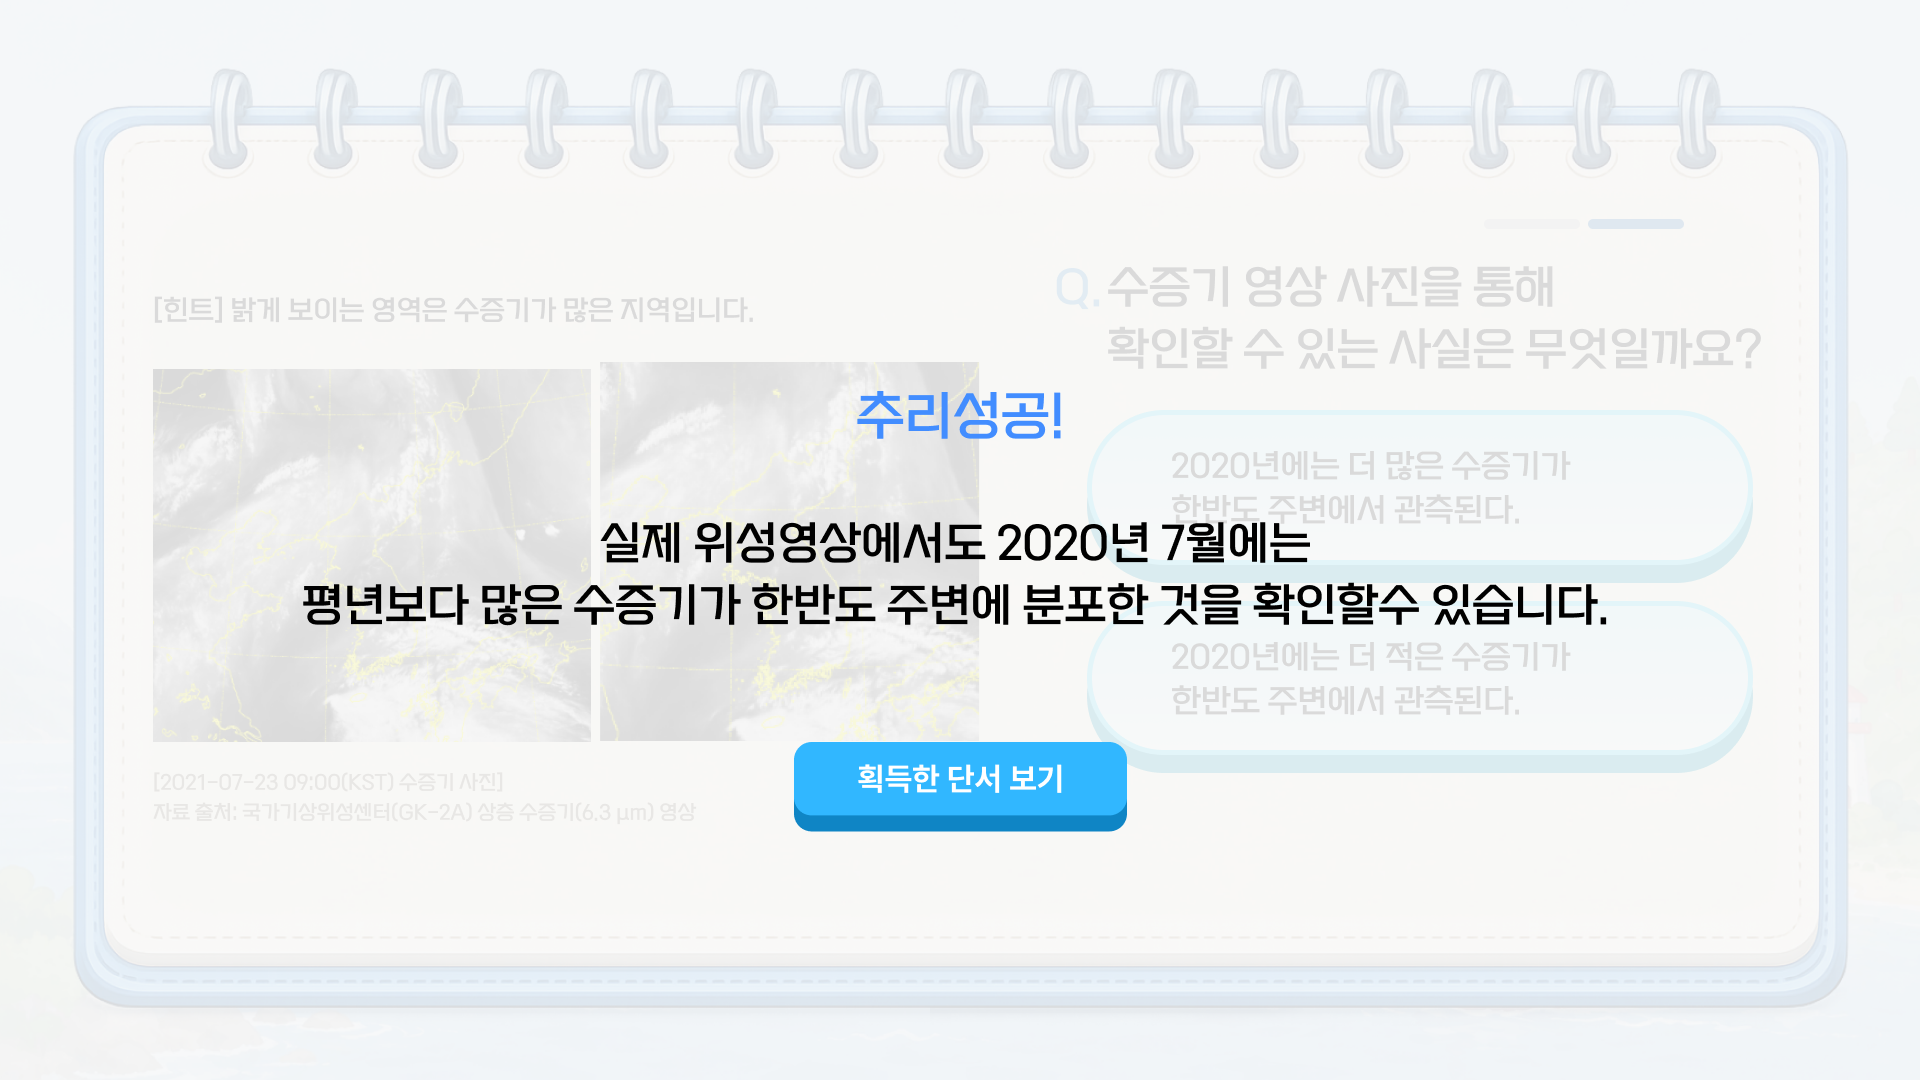
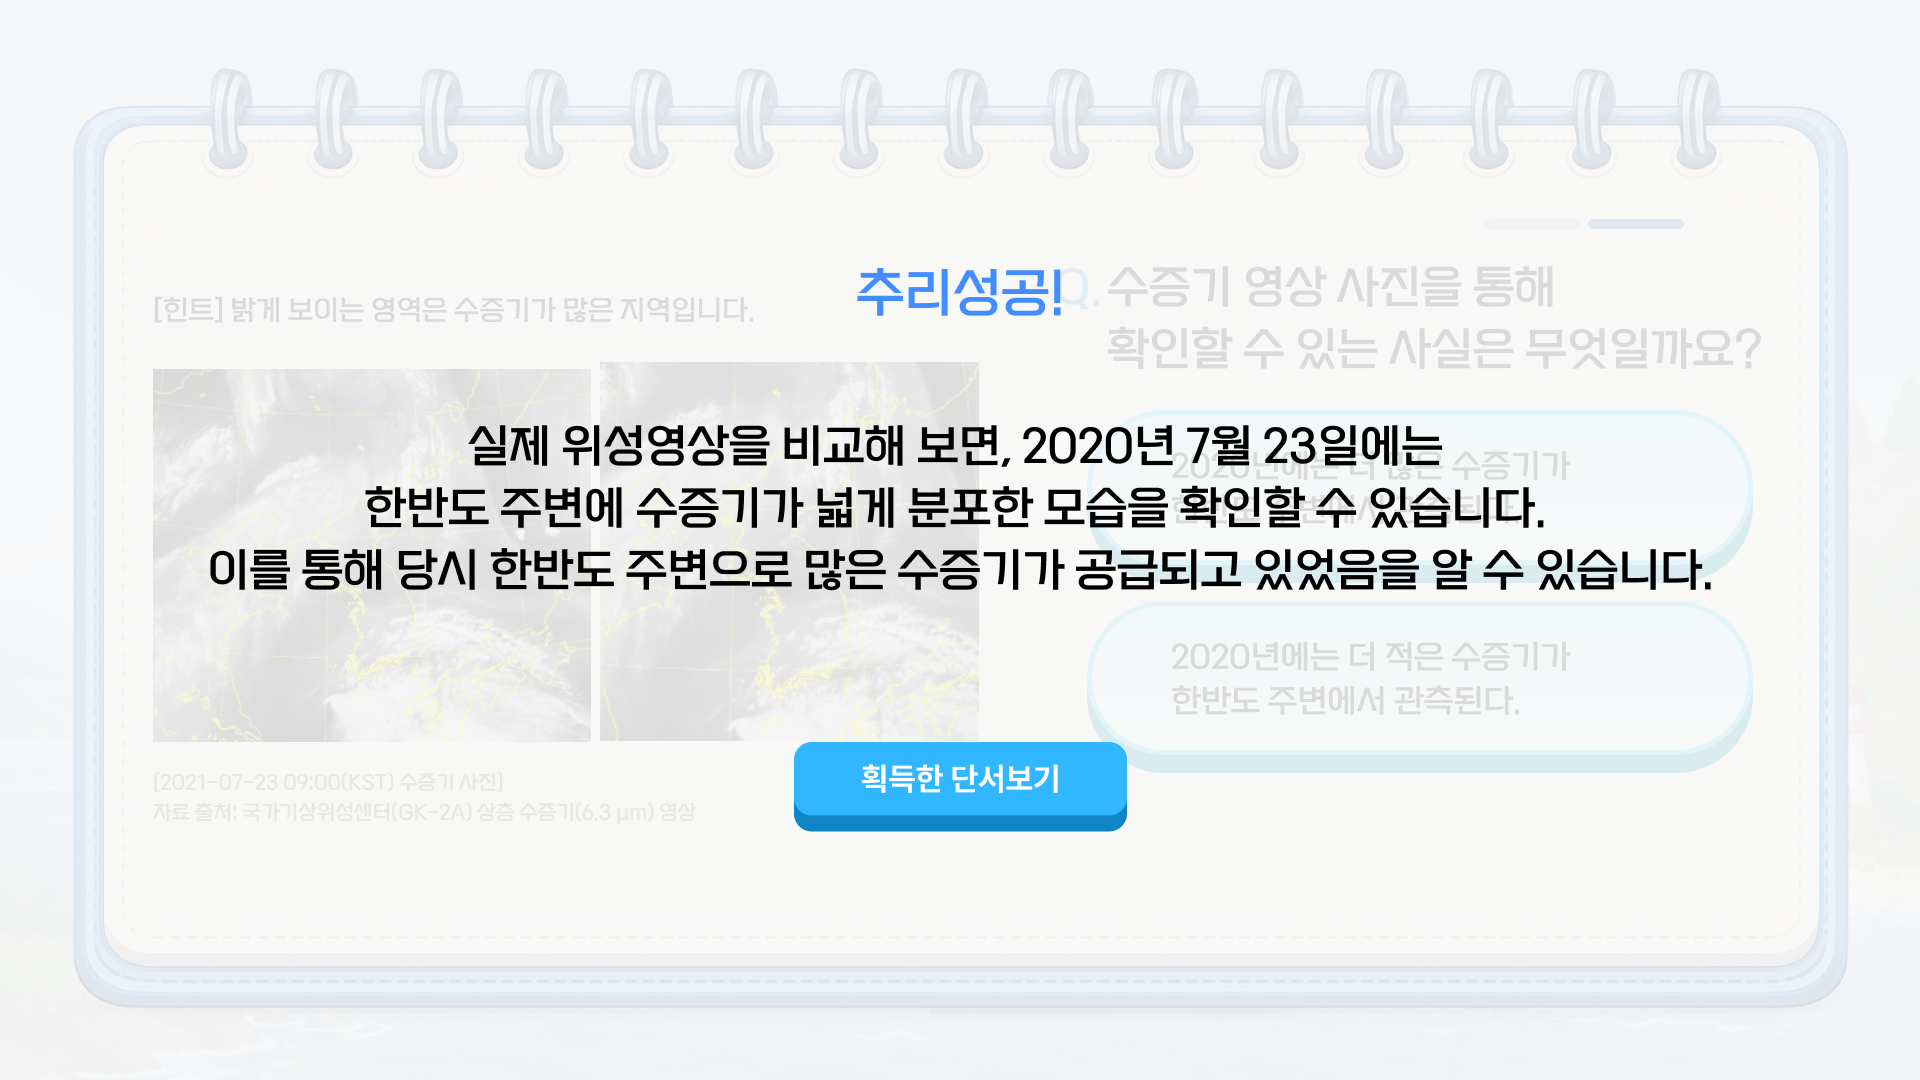
Update hint book artwork and fix weather hint2 button hitbox

Changed region(s): [[0.0938, 0.3667, 0.9062, 0.5806], [0.4375, 0.2444, 0.5625, 0.3056], [0.4375, 0.7028, 0.5625, 0.7333]]

diff --git a/frontend/src/cases/2020.js b/frontend/src/cases/2020.js
@@ -241,7 +241,7 @@ const case2020 = {
       },
       correct2: { background: weatherCorrect2Bg, hintBox: { left: '41.35cqi', top: '38.65cqi', width: '17.29cqi', height: '4.58cqi' } },
       wrong3: { background: weatherWrong3Bg, retryTarget: 'quiz2', retryBox: { right: '5.5cqi', bottom: '5cqi' } },
-      hint: { background: weatherHintBg, frontImage: weatherHintFront, backImage: weatherHintBack, hotspotBox: { left: '30.62%', top: '75%', width: '33.77%', height: '8.89%' } },
+      hint: { background: weatherHintBg, frontImage: weatherHintFront, backImage: weatherHintBack, hotspotBox: { left: '31.43%', top: '74.89%', width: '33.37%', height: '8.99%' } },
       notebook: { background: weatherNotebookBg, returnBox: { left: '83.95cqi', top: '2.02cqi', width: '14.71cqi', height: '5.65cqi' } },
     },
 
